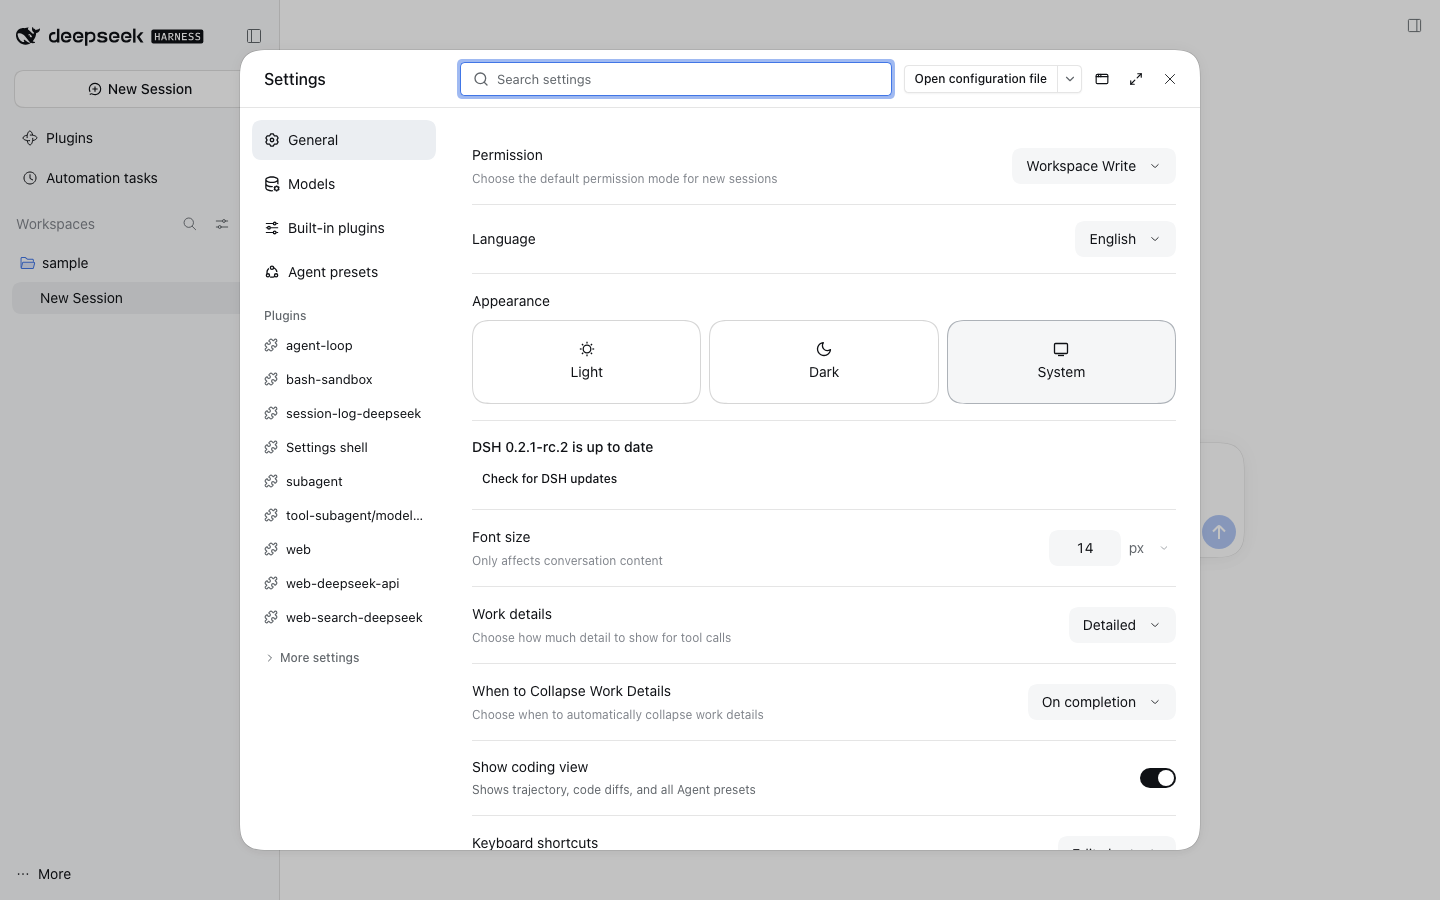
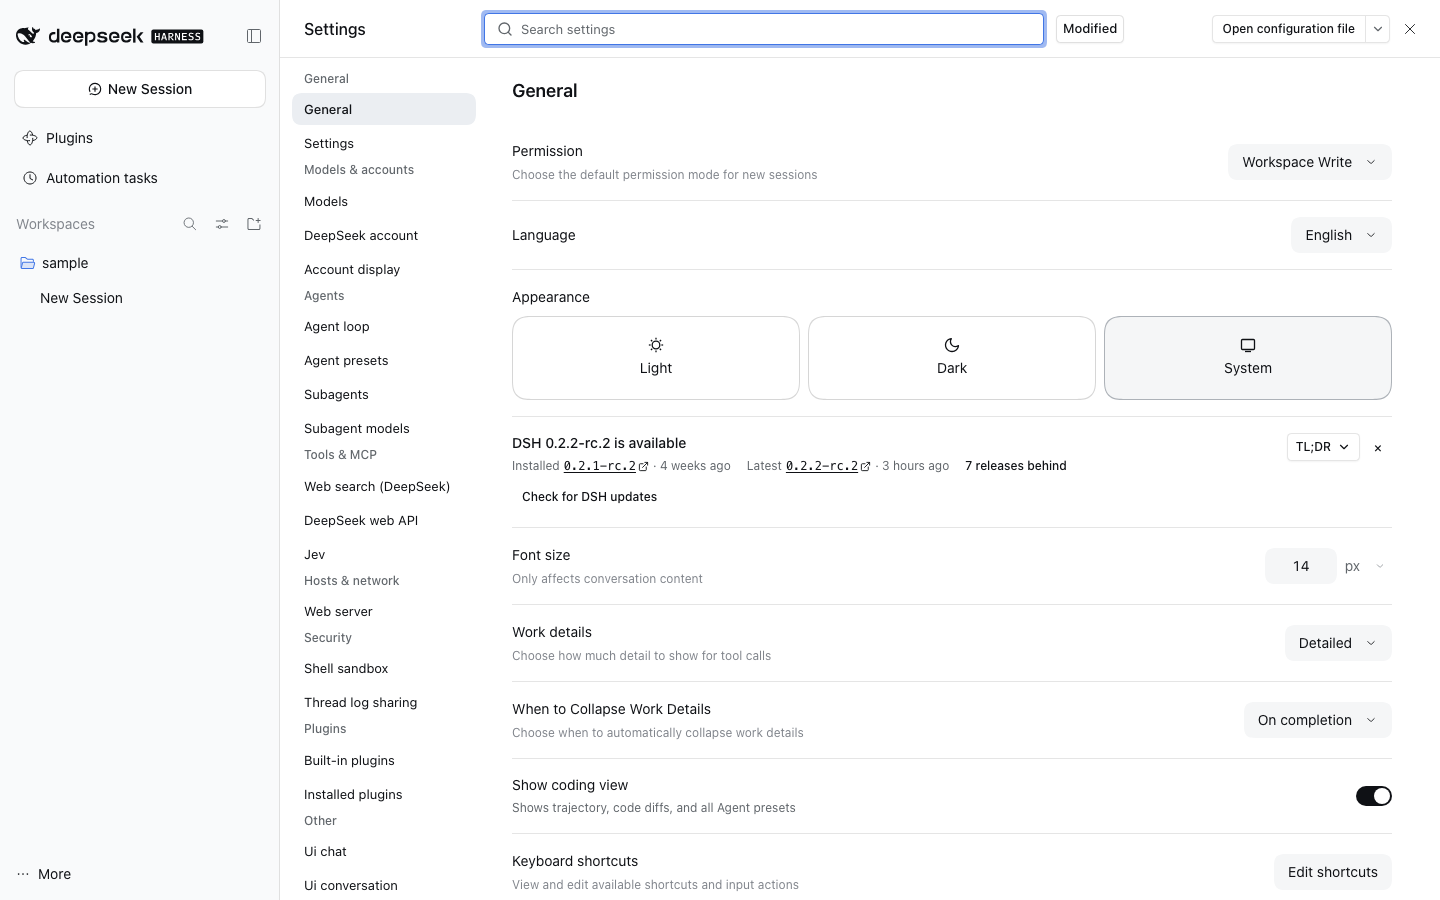
feat(settings-shell): link and date installed and latest DSH releases
The release notice said which versions differed but not how far behind the install is. Both version numbers now open their GitHub release, each shows when it shipped (relative, full date on hover or focus) and the notice counts the releases in between, from the GitHub Releases data the Host already reads and caches. New status fields are optional so a new client still decodes an older Host.

diff --git a/plugins/@dshfiles/settings-shell/src/release-notice.tsx b/plugins/@dshfiles/settings-shell/src/release-notice.tsx
@@ -8,6 +8,7 @@ import { createStoredValue } from '@dshfiles/plugin-ui/hooks/stored-value'
 import * as Schema from 'effect/Schema'
 import { settingsShellApi } from './shell-api.js'
 import { settingsShellSettings } from './settings.js'
+import { releaseDate } from './release-date.js'
 import { releaseCheckSchedule, type DshReleaseStatus } from './release-status.js'
 import type { ShellTranslate } from './native/locales.js'
 import { StatusDot } from '@dshfiles/plugin-ui/components/ui/status-dot'
@@ -48,6 +49,73 @@ const noticeMessage = (props: {
   return props.t('releaseNotice.checking')
 }
 
+const ReleaseVersion = (props: {
+  readonly t: ShellTranslate
+  readonly kind: 'installed' | 'latest'
+  readonly version: string
+  readonly url: string | null | undefined
+  readonly publishedAt: string | null | undefined
+  readonly now: number
+}): JSX.Element => {
+  const date = releaseDate({ publishedAt: props.publishedAt, now: props.now, locale: props.t('releaseNotice.dateLocale') })
+  return (
+    <span className="dshx:inline-flex dshx:min-w-0 dshx:flex-wrap dshx:items-center dshx:gap-x-1" data-dsh-release-version={props.kind}>
+      <span>{props.t(props.kind === 'installed' ? 'releaseNotice.installed' : 'releaseNotice.latest')}</span>
+      {props.url === null || props.url === undefined ? (
+        <span className="dshx:font-mono dshx:text-foreground">{props.version}</span>
+      ) : (
+        <a
+          className="dshx:inline-flex dshx:items-center dshx:gap-0.5 dshx:font-mono dshx:text-primary dshx:underline dshx:underline-offset-2 dshx:pointer-coarse:min-h-11"
+          href={props.url}
+          rel="noreferrer"
+          target="_blank"
+        >
+          {props.version}
+          <ExternalLinkIcon aria-hidden="true" size={11} />
+        </a>
+      )}
+      {date !== null && (
+        <Tooltip label={date.absolute} openOnClick side="bottom">
+          <time className="dshx:inline-flex dshx:items-center dshx:pointer-coarse:min-h-11" dateTime={date.dateTime} tabIndex={0}>
+            · {date.relative}
+          </time>
+        </Tooltip>
+      )}
+    </span>
+  )
+}
+
+const ReleaseVersions = (props: { readonly t: ShellTranslate; readonly status: DshReleaseStatus }): JSX.Element | null => {
+  const [now] = useState(() => Date.now())
+  if (props.status.currentVersion === null) return null
+  const latestVersion = props.status.latestVersion
+  const showLatest = latestVersion !== null && latestVersion !== props.status.currentVersion
+  const behind = props.status.available ? props.status.releases.length : 0
+  return (
+    <div
+      className="dshx:mt-1 dshx:flex dshx:flex-wrap dshx:items-center dshx:gap-x-4 dshx:gap-y-1 dshx:text-[12px] dshx:leading-[18px] dshx:text-muted-foreground"
+      data-dsh-release-versions=""
+    >
+      <ReleaseVersion
+        kind="installed"
+        now={now}
+        publishedAt={props.status.currentPublishedAt}
+        t={props.t}
+        url={props.status.currentUrl}
+        version={props.status.currentVersion}
+      />
+      {showLatest && (
+        <ReleaseVersion kind="latest" now={now} publishedAt={props.status.latestPublishedAt} t={props.t} url={props.status.latestUrl} version={latestVersion} />
+      )}
+      {behind > 0 && (
+        <span className="dshx:font-medium dshx:text-foreground">
+          {behind === 1 ? props.t('releaseNotice.behindOne') : props.t('releaseNotice.behind', { count: String(behind) })}
+        </span>
+      )}
+    </div>
+  )
+}
+
 export const DshReleaseIndicator = (props: { readonly t: ShellTranslate }): JSX.Element | null => {
   const status = useReleaseStatus().query
   const dismissed = dismissedRelease.useValue()
@@ -76,11 +144,7 @@ export const DshReleaseNotice = (props: { readonly t: ShellTranslate }): JSX.Ele
           <div className="dshx:text-[14px] dshx:leading-5 dshx:font-medium">
             {noticeMessage({ t: props.t, updateAvailable, isError: status.isError, off, status: releaseStatus })}
           </div>
-          {updateAvailable && (
-            <div className="dshx:mt-1 dshx:text-[12px] dshx:leading-[18px] dshx:text-muted-foreground">
-              {props.t('releaseNotice.compare', { current: releaseStatus.currentVersion ?? '', latest: releaseStatus.latestVersion ?? '' })}
-            </div>
-          )}
+          {releaseStatus !== undefined && <ReleaseVersions status={releaseStatus} t={props.t} />}
         </div>
         {updateAvailable && (
           <div className="dshx:flex dshx:shrink-0 dshx:items-center dshx:gap-1">

diff --git a/plugins/@dshfiles/settings-shell/src/release-status.test.ts b/plugins/@dshfiles/settings-shell/src/release-status.test.ts
@@ -6,12 +6,13 @@ import { FetchHttpClient } from 'effect/http'
 import { TestClock } from 'effect/testing'
 import { InstalledVersions } from './installed-versions.js'
 import { ReleaseCheck } from './release-check.js'
-import { githubReleasesJson, releaseCheckSchedule, releaseStatusFromGitHub } from './release-status.js'
+import { releaseDate } from './release-date.js'
+import { dshReleaseStatusSchema, githubReleasesJson, releaseCheckSchedule, releaseStatusFromGitHub } from './release-status.js'
 
-const githubRelease = (input: { readonly tag: string; readonly body?: string; readonly draft?: boolean }) => ({
+const githubRelease = (input: { readonly tag: string; readonly body?: string; readonly draft?: boolean; readonly publishedAt?: string }) => ({
   tag_name: input.tag,
   name: null,
-  published_at: '2026-10-17T08:16:33Z',
+  published_at: input.publishedAt ?? '2026-10-17T08:16:33Z',
   draft: input.draft ?? false,
   body: input.body ?? null,
   html_url: 'ignored external field',
@@ -28,6 +29,45 @@ describe('DSH GitHub release status', () => {
     expect(status.comparisonKnown).toBe(true)
     expect(status.releases.map(release => release.version)).toEqual(['0.2.1-rc.2'])
     expect(status.latestUrl).toBe('https://github.com/deepseek-ai/deepseek-harness/releases/tag/dsh-v0.2.1-rc.2')
+  })
+
+  it('links and dates both the installed and the latest release', () => {
+    const status = releaseStatusFromGitHub({
+      currentVersion: '0.2.1-rc.1',
+      releases: [
+        githubRelease({ tag: 'dsh-v0.2.1-rc.2', publishedAt: '2026-11-08T10:00:00Z' }),
+        githubRelease({ tag: 'dsh-v0.2.1-rc.1', publishedAt: '2026-10-17T08:16:33Z' }),
+      ],
+    })
+
+    expect(status).toMatchObject({
+      currentUrl: 'https://github.com/deepseek-ai/deepseek-harness/releases/tag/dsh-v0.2.1-rc.1',
+      currentPublishedAt: '2026-10-17T08:16:33Z',
+      latestUrl: 'https://github.com/deepseek-ai/deepseek-harness/releases/tag/dsh-v0.2.1-rc.2',
+      latestPublishedAt: '2026-11-08T10:00:00Z',
+    })
+    expect(releaseStatusFromGitHub({ currentVersion: '0.2.1-custom', releases: [githubRelease({ tag: 'dsh-v0.2.1-rc.2' })] })).toMatchObject({
+      currentUrl: null,
+      currentPublishedAt: null,
+    })
+  })
+
+  it('still decodes the status of an older Host without links or dates', () => {
+    const older = { currentVersion: '0.2.1-rc.1', latestVersion: '0.2.1-rc.2', latestUrl: null, available: true, comparisonKnown: true, releases: [] }
+    expect(Schema.decodeUnknownResult(dshReleaseStatusSchema)(older)._tag).toBe('Success')
+  })
+
+  it('formats a release date as relative time with the full date for hover', () => {
+    const now = Date.parse('2026-11-11T10:00:00Z')
+    expect(releaseDate({ publishedAt: '2026-11-08T10:00:00Z', now, locale: 'en' })).toMatchObject({
+      dateTime: '2026-11-08T10:00:00.000Z',
+      relative: '3 days ago',
+      absolute: expect.stringContaining('November 8, 2026'),
+    })
+    expect(releaseDate({ publishedAt: '2026-10-17T08:16:33Z', now, locale: 'en' })?.relative).toBe('4 weeks ago')
+    expect(releaseDate({ publishedAt: '2026-11-11T09:59:30Z', now, locale: 'en' })?.relative).toBe('now')
+    expect(releaseDate({ publishedAt: null, now, locale: 'en' })).toBeNull()
+    expect(releaseDate({ publishedAt: 'not a date', now, locale: 'en' })).toBeNull()
   })
 
   it('does not claim an update when the installed tag is missing or current', () => {

diff --git a/plugins/@dshfiles/settings-shell/src/release-status.ts b/plugins/@dshfiles/settings-shell/src/release-status.ts
@@ -21,10 +21,17 @@ const releaseInfoSchema = Schema.Struct({
   highlights: Schema.Array(releaseHighlightSchema).check(Schema.isMaxLength(12)),
 })
 
+const releaseUrlSchema = Schema.NullOr(Schema.String.check(Schema.isMaxLength(2_048), Schema.isPattern(/^https:\/\/github\.com\//u)))
+const publishedAtSchema = Schema.NullOr(Schema.String.check(Schema.isMaxLength(40)))
+
+/** `currentUrl` and both `…PublishedAt` fields are optional: an older Host does not send them. */
 export const dshReleaseStatusSchema = Schema.Struct({
   currentVersion: Schema.NullOr(Schema.String.check(Schema.isMaxLength(100))),
+  currentUrl: Schema.optionalKey(releaseUrlSchema),
+  currentPublishedAt: Schema.optionalKey(publishedAtSchema),
   latestVersion: Schema.NullOr(Schema.String.check(Schema.isMaxLength(100))),
-  latestUrl: Schema.NullOr(Schema.String.check(Schema.isMaxLength(2_048), Schema.isPattern(/^https:\/\/github\.com\//u))),
+  latestUrl: releaseUrlSchema,
+  latestPublishedAt: Schema.optionalKey(publishedAtSchema),
   available: Schema.Boolean,
   comparisonKnown: Schema.Boolean,
   releases: Schema.Array(releaseInfoSchema).check(Schema.isMaxLength(100)),
@@ -109,10 +116,14 @@ export const releaseStatusFromGitHub = (input: { readonly currentVersion: string
   const latest = releases[0]
   const currentIndex = input.currentVersion === null ? -1 : releases.findIndex(release => release.version === input.currentVersion)
   const comparisonKnown = currentIndex >= 0
+  const current = comparisonKnown ? releases[currentIndex] : undefined
   return {
     currentVersion: input.currentVersion,
+    currentUrl: current?.url ?? null,
+    currentPublishedAt: current?.publishedAt ?? null,
     latestVersion: latest?.version ?? null,
     latestUrl: latest?.url ?? null,
+    latestPublishedAt: latest?.publishedAt ?? null,
     available: currentIndex > 0,
     comparisonKnown,
     releases: currentIndex > 0 ? releases.slice(0, currentIndex) : [],

diff --git a/plugins/@dshfiles/settings-shell/src/native/locales.ts b/plugins/@dshfiles/settings-shell/src/native/locales.ts
@@ -109,7 +109,11 @@ const shellEn = {
   'port.stale': 'This Settings shell was ported from DSH {ported}; DSH {installed} may have changed it. Refresh @dshfiles/settings-shell.',
   'releaseNotice.badge': 'DSH {version} is available. Open Settings → General for a summary.',
   'releaseNotice.available': 'DSH {version} is available',
-  'releaseNotice.compare': 'Your version is {current}; this summary covers releases through {latest}.',
+  'releaseNotice.dateLocale': 'en',
+  'releaseNotice.installed': 'Installed',
+  'releaseNotice.latest': 'Latest',
+  'releaseNotice.behindOne': '1 release behind',
+  'releaseNotice.behind': '{count} releases behind',
   'releaseNotice.showSummary': 'TL;DR',
   'releaseNotice.hideSummary': 'Hide TL;DR',
   'releaseNotice.dismiss': 'Dismiss DSH {version} update notice',
@@ -224,7 +228,11 @@ const shellZh = {
   'port.stale': '此设置界面移植自 DSH {ported}；DSH {installed} 可能已更改它。请更新 @dshfiles/settings-shell。',
   'releaseNotice.badge': 'DSH {version} 已发布。打开设置 → 通用设置查看摘要。',
   'releaseNotice.available': 'DSH {version} 已发布',
-  'releaseNotice.compare': '当前版本为 {current}；以下摘要涵盖至 {latest} 的版本。',
+  'releaseNotice.dateLocale': 'zh-CN',
+  'releaseNotice.installed': '当前',
+  'releaseNotice.latest': '最新',
+  'releaseNotice.behindOne': '落后 1 个版本',
+  'releaseNotice.behind': '落后 {count} 个版本',
   'releaseNotice.showSummary': '摘要',
   'releaseNotice.hideSummary': '收起摘要',
   'releaseNotice.dismiss': '关闭 DSH {version} 更新通知',

diff --git a/plugins/@dshfiles/settings-shell/src/release-date.ts b/plugins/@dshfiles/settings-shell/src/release-date.ts
@@ -1,0 +1,23 @@
+const RELATIVE_UNITS: readonly (readonly [Intl.RelativeTimeFormatUnit, number])[] = [
+  ['year', 365 * 24 * 60 * 60 * 1000],
+  ['month', 30 * 24 * 60 * 60 * 1000],
+  ['week', 7 * 24 * 60 * 60 * 1000],
+  ['day', 24 * 60 * 60 * 1000],
+  ['hour', 60 * 60 * 1000],
+  ['minute', 60 * 1000],
+]
+
+/** A release date as "3 days ago" plus the full local date for hover; null when GitHub sent none or an invalid one. */
+export const releaseDate = (input: { readonly publishedAt: string | null | undefined; readonly now: number; readonly locale: string }) => {
+  if (input.publishedAt === null || input.publishedAt === undefined) return null
+  const at = Date.parse(input.publishedAt)
+  if (Number.isNaN(at)) return null
+  const elapsed = at - input.now
+  const bucket = RELATIVE_UNITS.find(([, unitSize]) => Math.abs(elapsed) >= unitSize)
+  const relative = new Intl.RelativeTimeFormat(input.locale, { numeric: 'auto' })
+  return {
+    dateTime: new Date(at).toISOString(),
+    relative: bucket === undefined ? relative.format(0, 'second') : relative.format(Math.round(elapsed / bucket[1]), bucket[0]),
+    absolute: new Intl.DateTimeFormat(input.locale, { dateStyle: 'long', timeStyle: 'short' }).format(at),
+  }
+}

diff --git a/plugins/@dshfiles/settings-shell/README.md b/plugins/@dshfiles/settings-shell/README.md
@@ -52,7 +52,7 @@ These are presentation-only panel registrations; setting reads/writes retain the
 
 ### DSH release notices
 
-The Settings trigger shows a small badge when GitHub has a release newer than the DSH version running on the Host. **Settings › General › Settings › Release check** (`releaseCheck`) turns the automatic check off: nothing asks GitHub on its own, the badge stays hidden, and **Check for DSH updates** still asks once when pressed. **General** lists releases between the installed version and latest, offers a concise English TL;DR, and links to the official release notes. Dismissal is browser-local and lasts until another release appears. Release checks run on the Host against the fixed public GitHub Releases API, are cached for one hour, and can be retried from General; an unavailable or unmatched history never guesses that an update exists. The read-only `dsh_release_status` Agent tool uses the same checked result.
+The Settings trigger shows a small badge when GitHub has a release newer than the DSH version running on the Host. **Settings › General › Settings › Release check** (`releaseCheck`) turns the automatic check off: nothing asks GitHub on its own, the badge stays hidden, and **Check for DSH updates** still asks once when pressed. **General** links the installed and latest version numbers to their GitHub releases, dates each (relative, full date on hover or focus) and counts the releases between them, lists those releases, offers a concise English TL;DR, and links to the official release notes. Dismissal is browser-local and lasts until another release appears. Release checks run on the Host against the fixed public GitHub Releases API, are cached for one hour, and can be retried from General; an unavailable or unmatched history never guesses that an update exists. The read-only `dsh_release_status` Agent tool uses the same checked result.
 
 ### Search
 
